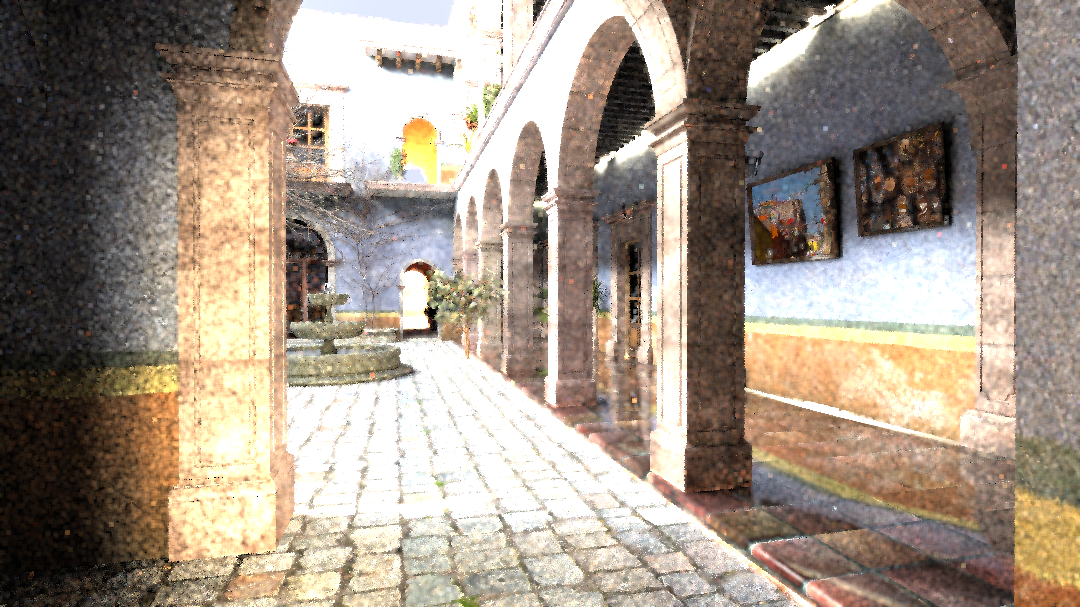
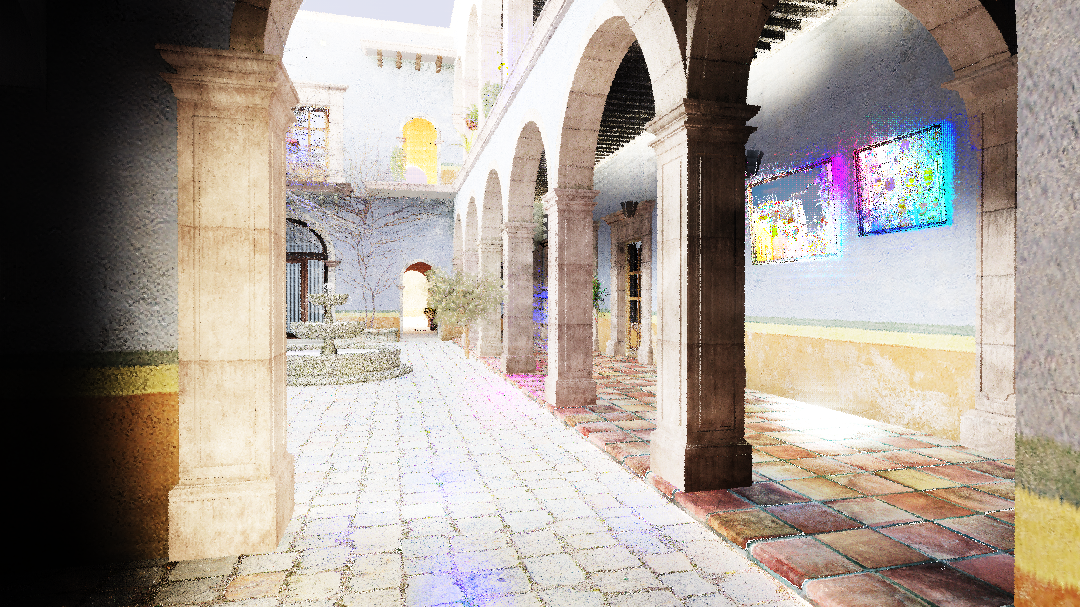
滤波

diff --git a/README.md b/README.md
@@ -38,7 +38,7 @@ zig build run -Doptimize=ReleaseFast -- --scene sanmiguel --width 640 --samples 
 `--scene sanmiguel` 从 `assets/sanmiguel` 导入 PBRT v2 场景（约 250 万三角形、16 万实例化对象）。
 该场景默认自动降到 320×180、32 spp；未显式指定 `--width`/`--samples` 时不会用 8640×100spp。
 环境光来自 `sky.exr`（EXR IBL），树叶/窗纱用 alpha 掩码。
-低样本下噪点明显，建议加 `--denoise`（G-buffer 引导的联合双边降噪，线性域后处理，几乎不增加渲染时间）。
+低样本下噪点明显，建议加 `--denoise`（G-buffer 引导的多尺度 à-trous 小波降噪，含火焰点截断，线性域后处理，几乎不增加渲染时间）。
 选择场景不会自动修改输出文件名，建议显式指定 `--output`。
 
 ### 渲染与相机参数
@@ -55,9 +55,8 @@ zig build run -Doptimize=ReleaseFast -- --scene sanmiguel --width 640 --samples 
 | `--relative-error E` | 0.05 | 线性 RGB 相对阈值，不是误差保证 |
 | `--absolute-error E` | 0.002 | 线性 RGB 绝对阈值 |
 | `--rr-depth N` | 5 | 第 N 次散射之后开始轮盘，不是最大深度 |
-| `--denoise` | 未启用 | 线性域 G-buffer 引导的联合双边降噪 |
-| `--denoise-radius N` | 3 | 降噪空间半径，像素 |
-| `--denoise-iterations N` | 2 | 降噪迭代次数 |
+| `--denoise` | 未启用 | 线性域 G-buffer 引导的多尺度 à-trous 小波降噪 |
+| `--denoise-scales N` | 5 | 降噪多尺度层数，1~8，越大越平滑 |
 | `--output FILE` | random_scene.png | PNG 路径，父目录必须存在 |
 | `--focal-length MM` | 50 | 镜头焦距，毫米 |
 | `--f-number N` | 8 | 光圈数；改变景深和曝光 |
@@ -114,13 +113,13 @@ Zig 使用 `struct` 和带标签 `union`，没有传统继承式类。
 | [water](src/water.zig) | `WavySphere` | 静态隐式位移曲面、解析几何法线和有界求根 |
 | [bsdf](src/bsdf.zig) | `Surface`、`Sample` | `eval/pdf/sample`、GGX VNDF、Fresnel |
 | [light](src/light.zig) | `Sampler`、`PointLight`、`DistantLight` | 选光概率、方向 PDF、MIS 权重 |
-| [color](src/color.zig) | `rayColorLit`、`spawnRay`、`writeColor` | 表面/体积传输、NEE、MIS、轮盘与显示编码 |
+| [color](src/color.zig) | `rayColorLit`、`spawnRay`、`writeColor`、`acesFilm` | 表面/体积传输、NEE、MIS、轮盘与 ACES 显示编码 |
 | [object](src/object.zig) | `Object`、`HitRecord`、`Sphere`、`Capsule`、`BvhNode` | 相交、运动、几何采样、加速结构 |
 | [mesh](src/mesh.zig) | `TriangleMesh`、`Uv`、`buildTriangleMesh` | 三角形网格求交、平滑法线与 UV 插值 |
 | [import](src/import.zig) | `importPly`、`importObj`、`importPbrtScene`、`importSanMiguel` | PLY/OBJ/PBRT v2 资产解析与实例化 |
 | [exr](src/exr.zig) | `loadExr`、`ExrImage` | OpenEXR ZIP 解码（HALF/FLOAT 扫描线） |
 | [environment](src/environment.zig) | `EnvironmentMap`、`Sample` | 等距柱状环境贴图、亮度 CDF 重要性采样 |
-| [denoise](src/denoise.zig) | `denoiseJointBilateral`、`Guide`、`Options` | G-buffer 引导的联合双边降噪 |
+| [denoise](src/denoise.zig) | `denoiseAtrous`、`Guide`、`AtrousOptions` | 反照率/光照分离的 à-trous 小波降噪 |
 | [texture](src/texture.zig) | `Texture`、`ImageTexture` | 常量、棋盘、Perlin、8 位图片 |
 | [sampling](src/sampling.zig) | `PixelSampler`、`Estimate` | Sobol 随机数字平移、自适应估计 |
 | [math](src/math.zig) | `Vec3`、`Ray`、`Onb`、`AabbRay` | 向量、坐标系和稳健包围盒 |
@@ -280,8 +279,8 @@ $$
   当前仍为指针式 BVH，构建含插入排序，不适合无上限增加图元，不是 SAH/扁平 BVH。
 - 默认线程数为逻辑 CPU 数，受行块数限制；默认每任务 8 行，调用线程也参与。
 - RNG 按像素和样本播种；同一构建与参数下，线程数/行块调度不改变输出。
-- Sobol 只用于胶片 2D、镜头 2D、快门 1D，八个随机数字平移副本；后续路径使用 PRNG。
-  不是全路径 Sobol 或完整 Owen scrambling；基础点缓存最多 80 KiB。
+- Sobol 只用于胶片 2D、镜头 2D、快门 1D，带哈希 Owen 加扰（反位 + Laine-Karras 混合）的八个副本；后续路径使用 PRNG。
+  不是全路径 Sobol；基础点缓存最多 80 KiB。
 - 八副本的均值估计线性 RGB 误差；需连续两个检查点达标，默认最早 32 spp 停止。
   自适应停止有可选停止偏差及稀有高亮漏检风险，**参考图须关闭**。
 - 轮盘仅除实际存活概率，折射率补偿只用于重要性判断，不额外乘入辐亮度。
@@ -314,7 +313,7 @@ VS Code 测试配置通过构建脚本链接 stb/libc；不要绕过构建直接
 第三方 stb 头、生成 Vulkan 绑定和版权/许可文本保持原样，防止破坏上游维护和许可证。
 规则见 [注释规范](docs/comments.md)。
 
-本轮完整测试在 Debug、ReleaseSafe、ReleaseFast 下均为 **168/168 通过**。
+本轮完整测试在 Debug、ReleaseSafe、ReleaseFast 下均为 **170/170 通过**。
 实际体散射摄影棚的单线程与四线程 PNG 散列一致；
 [640×360、2048 spp 对照图](.zig-cache/materials-sss-final.png) 已生成并检查（左水右玉，缓存清理后链接失效）。
 预览仍有噪点，不代表收敛。测试、图像及数值限制见 [验证记录](docs/validation.md)，其中旧薄层玉石结果单独标为历史基线。
@@ -325,7 +324,7 @@ VS Code 测试配置通过构建脚本链接 stb/libc；不要绕过构建直接
 - 网格为 Möller–Trumbore 求交，大网格自带质心中位分割的三角形 BVH；实例不支持光源方向采样。
 - EXR 支持 ZIP 压缩的 HALF/FLOAT 扫描线 RGB；环境光按亮度 CDF 重要性采样，应用 PBRT `Rotate` 与 `scale`。
 - 图片纹理仍是 8 位最近点采样；alpha 掩码以直线穿过概率做 alpha 混合，`diffusetransmission` 近似为 0.5 透射薄层。
-- 输出仍为 gamma 2.2 的 8 位 PNG 并截断显示范围，无 EXR/HDR 输出或色调映射。
+- 输出为 ACES 电影色调映射 + gamma 2.2 的 8 位 PNG；无 EXR/HDR 输出。
 - 已支持闭合抛光物体内的均匀随机游走 SSS；不支持非均匀/一般场景体积、RGB 独立散射率、粗糙折射、嵌套/相交介质或内部嵌入其他物体。
 - `Isotropic`/`ConstantMedium` 是旧兼容路径，不是主积分器此次新增体积支持的入口；使用 `newSubsurface`。
 - 没有体积 NEE、折射连接或专用焦散求解器。面灯/环境的折射焦散依赖普通路径追踪，可能高噪声；解析 delta 灯的镜面链不受支持。
